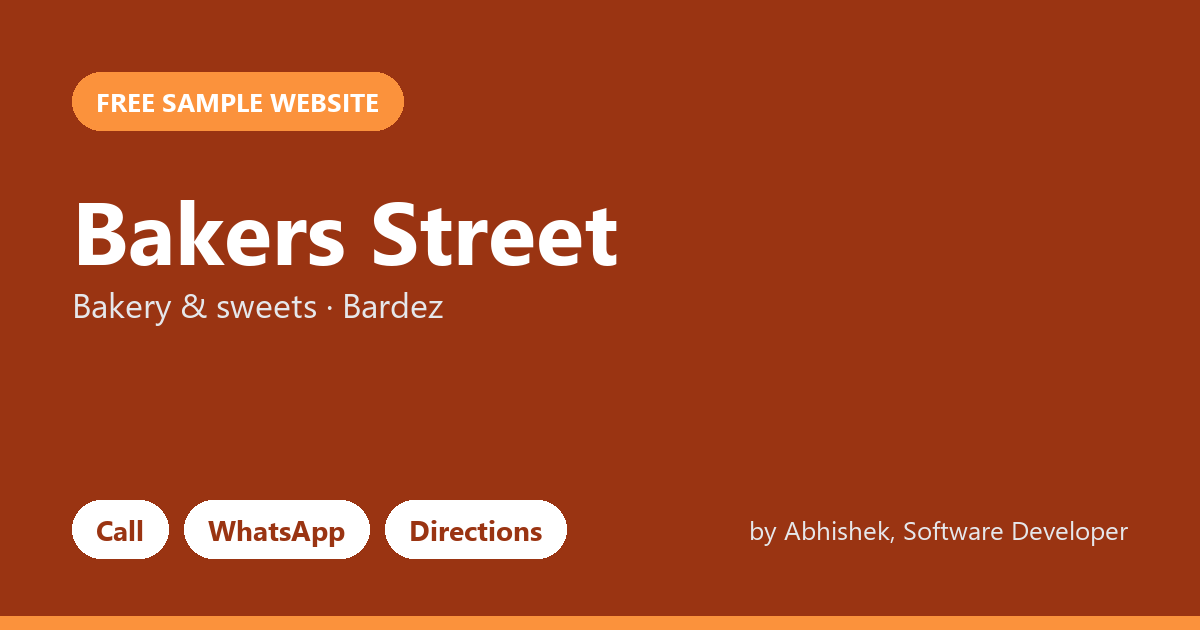
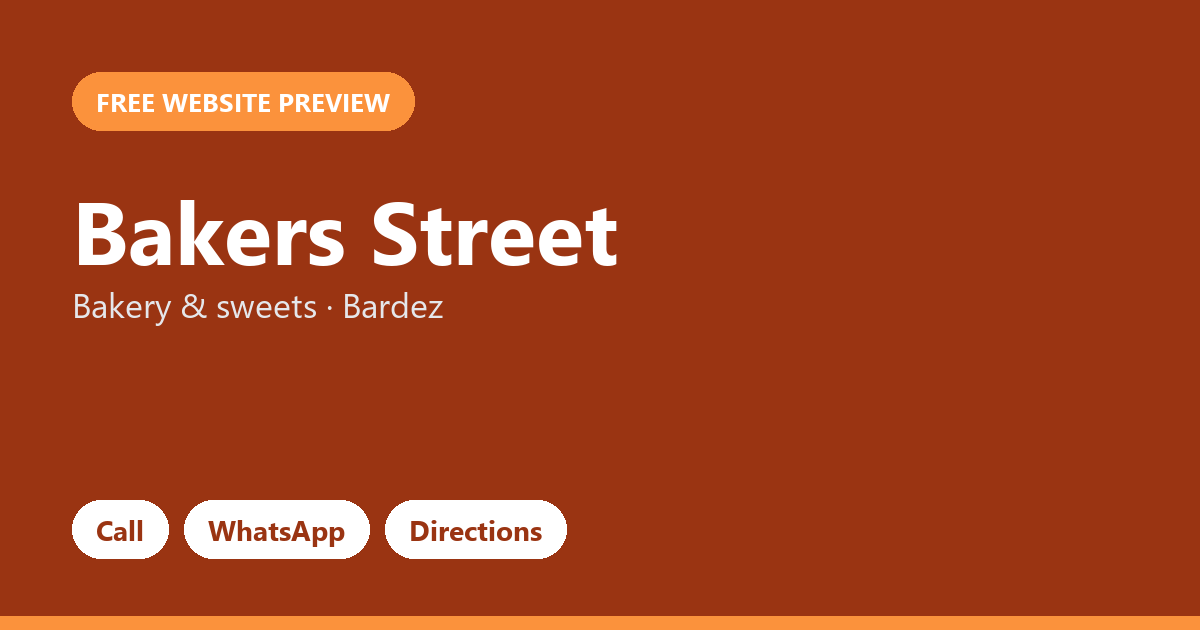
Previews: drop price and personal name (11-15 of 139)

Changed region(s): [[0.6167, 0.8143, 0.925, 0.8746], [0.1233, 0.1206, 0.37, 0.2111]]

diff --git a/p/ashwani-bakers-and-wrappers-jalandhar-4273/index.html b/p/ashwani-bakers-and-wrappers-jalandhar-4273/index.html
@@ -6,8 +6,8 @@
 <title>Ashwani Bakers and Wrappers | Bakery &amp; sweets in Jalandhar</title>
 <meta name="description" content="Freshly baked every day. Cakes, pastries and treats for every celebration.">
 <meta property="og:type" content="website">
-<meta property="og:title" content="Ashwani Bakers and Wrappers · Free sample website">
-<meta property="og:description" content="Made by Abhishek, Software Developer. Call, WhatsApp and directions in one tap.">
+<meta property="og:title" content="Ashwani Bakers and Wrappers · Free website preview">
+<meta property="og:description" content="Call, WhatsApp and directions in one tap.">
 <meta property="og:url" content="https://roguestar03.github.io/p/ashwani-bakers-and-wrappers-jalandhar-4273/">
 <meta property="og:image" content="https://roguestar03.github.io/p/ashwani-bakers-and-wrappers-jalandhar-4273/og.png">
 <meta property="og:image:width" content="1200">
@@ -167,7 +167,7 @@ footer{padding:40px 0 110px;border-top:1px solid var(--line);font-size:14px;colo
 </style>
 </head>
 <body>
-<div class="pv">Sample website made for <b>Ashwani Bakers and Wrappers</b> by <b>Abhishek</b>. Not the official website yet. <b>Like it?</b> Make it yours for ₹1,999. Contact: <a href="mailto:abhishekkayasth87@gmail.com">abhishekkayasth87@gmail.com</a> · <a href="https://www.linkedin.com/in/abhishek-kayasth-050250239/" target="_blank" rel="noopener">LinkedIn</a></div>
+<div class="pv">Free website preview for <b>Ashwani Bakers and Wrappers</b>. Not the official website yet. <b>Like it?</b> Just reply to our message. Contact: <a href="mailto:abhishekkayasth87@gmail.com">abhishekkayasth87@gmail.com</a> · <a href="https://www.linkedin.com/in/abhishek-kayasth-050250239/" target="_blank" rel="noopener">LinkedIn</a></div>
 <header>
   <div class="wrap nav">
     <a href="#top" class="logo"><span class="mark">AB</span><span class="t">Ashwani Bakers and Wrappers</span></a>
@@ -259,7 +259,7 @@ footer{padding:40px 0 110px;border-top:1px solid var(--line);font-size:14px;colo
       <div><b style="color:var(--ink)">Ashwani Bakers and Wrappers</b><br>BIII-474, Jail Rd, Near Fire Brigade, Jalandhar<p class="soc"><a href="https://www.facebook.com/781064111985018" target="_blank" rel="noopener">Facebook</a></p></div>
       <div>+91 70099 64273<br>&copy; 2026 Ashwani Bakers and Wrappers</div>
     </div>
-    <p class="credit">Sample website by Abhishek, Software Developer · <a href="mailto:abhishekkayasth87@gmail.com">abhishekkayasth87@gmail.com</a> · <a href="https://www.linkedin.com/in/abhishek-kayasth-050250239/" target="_blank" rel="noopener">LinkedIn</a></p>
+    <p class="credit">Website preview · <a href="mailto:abhishekkayasth87@gmail.com">abhishekkayasth87@gmail.com</a> · <a href="https://www.linkedin.com/in/abhishek-kayasth-050250239/" target="_blank" rel="noopener">LinkedIn</a></p>
   </div>
 </footer>
 

diff --git a/p/ask-fitness-banashankari-bengaluru-3704/index.html b/p/ask-fitness-banashankari-bengaluru-3704/index.html
@@ -6,8 +6,8 @@
 <title>ASK Fitness Banashankari | Gym &amp; fitness in Bengaluru</title>
 <meta name="description" content="Train harder, get stronger. Modern equipment, expert trainers and a motivating crowd.">
 <meta property="og:type" content="website">
-<meta property="og:title" content="ASK Fitness Banashankari · Free sample website">
-<meta property="og:description" content="Made by Abhishek, Software Developer. Call, WhatsApp and directions in one tap.">
+<meta property="og:title" content="ASK Fitness Banashankari · Free website preview">
+<meta property="og:description" content="Call, WhatsApp and directions in one tap.">
 <meta property="og:url" content="https://roguestar03.github.io/p/ask-fitness-banashankari-bengaluru-3704/">
 <meta property="og:image" content="https://roguestar03.github.io/p/ask-fitness-banashankari-bengaluru-3704/og.png">
 <meta property="og:image:width" content="1200">
@@ -167,7 +167,7 @@ footer{padding:40px 0 110px;border-top:1px solid var(--line);font-size:14px;colo
 </style>
 </head>
 <body>
-<div class="pv">Sample website made for <b>ASK Fitness Banashankari</b> by <b>Abhishek</b>. Not the official website yet. <b>Like it?</b> Make it yours for ₹1,999. Contact: <a href="mailto:abhishekkayasth87@gmail.com">abhishekkayasth87@gmail.com</a> · <a href="https://www.linkedin.com/in/abhishek-kayasth-050250239/" target="_blank" rel="noopener">LinkedIn</a></div>
+<div class="pv">Free website preview for <b>ASK Fitness Banashankari</b>. Not the official website yet. <b>Like it?</b> Just reply to our message. Contact: <a href="mailto:abhishekkayasth87@gmail.com">abhishekkayasth87@gmail.com</a> · <a href="https://www.linkedin.com/in/abhishek-kayasth-050250239/" target="_blank" rel="noopener">LinkedIn</a></div>
 <header>
   <div class="wrap nav">
     <a href="#top" class="logo"><span class="mark">AF</span><span class="t">ASK Fitness Banashankari</span></a>
@@ -259,7 +259,7 @@ footer{padding:40px 0 110px;border-top:1px solid var(--line);font-size:14px;colo
       <div><b style="color:var(--ink)">ASK Fitness Banashankari</b><br>19/11, 5th main, 4th Cross Rd, Bengaluru<p class="soc"><a href="https://www.facebook.com/107569030647072" target="_blank" rel="noopener">Facebook</a></p></div>
       <div>+91 74839 03704<br>&copy; 2026 ASK Fitness Banashankari</div>
     </div>
-    <p class="credit">Sample website by Abhishek, Software Developer · <a href="mailto:abhishekkayasth87@gmail.com">abhishekkayasth87@gmail.com</a> · <a href="https://www.linkedin.com/in/abhishek-kayasth-050250239/" target="_blank" rel="noopener">LinkedIn</a></p>
+    <p class="credit">Website preview · <a href="mailto:abhishekkayasth87@gmail.com">abhishekkayasth87@gmail.com</a> · <a href="https://www.linkedin.com/in/abhishek-kayasth-050250239/" target="_blank" rel="noopener">LinkedIn</a></p>
   </div>
 </footer>
 

diff --git a/p/athletica-fitness-surat-9000/index.html b/p/athletica-fitness-surat-9000/index.html
@@ -6,8 +6,8 @@
 <title>Athletica Fitness | Gym &amp; fitness in Surat</title>
 <meta name="description" content="Train harder, get stronger. Modern equipment, expert trainers and a motivating crowd.">
 <meta property="og:type" content="website">
-<meta property="og:title" content="Athletica Fitness · Free sample website">
-<meta property="og:description" content="Made by Abhishek, Software Developer. Call, WhatsApp and directions in one tap.">
+<meta property="og:title" content="Athletica Fitness · Free website preview">
+<meta property="og:description" content="Call, WhatsApp and directions in one tap.">
 <meta property="og:url" content="https://roguestar03.github.io/p/athletica-fitness-surat-9000/">
 <meta property="og:image" content="https://roguestar03.github.io/p/athletica-fitness-surat-9000/og.png">
 <meta property="og:image:width" content="1200">
@@ -167,7 +167,7 @@ footer{padding:40px 0 110px;border-top:1px solid var(--line);font-size:14px;colo
 </style>
 </head>
 <body>
-<div class="pv">Sample website made for <b>Athletica Fitness</b> by <b>Abhishek</b>. Not the official website yet. <b>Like it?</b> Make it yours for ₹1,999. Contact: <a href="mailto:abhishekkayasth87@gmail.com">abhishekkayasth87@gmail.com</a> · <a href="https://www.linkedin.com/in/abhishek-kayasth-050250239/" target="_blank" rel="noopener">LinkedIn</a></div>
+<div class="pv">Free website preview for <b>Athletica Fitness</b>. Not the official website yet. <b>Like it?</b> Just reply to our message. Contact: <a href="mailto:abhishekkayasth87@gmail.com">abhishekkayasth87@gmail.com</a> · <a href="https://www.linkedin.com/in/abhishek-kayasth-050250239/" target="_blank" rel="noopener">LinkedIn</a></div>
 <header>
   <div class="wrap nav">
     <a href="#top" class="logo"><span class="mark">AF</span><span class="t">Athletica Fitness</span></a>
@@ -259,7 +259,7 @@ footer{padding:40px 0 110px;border-top:1px solid var(--line);font-size:14px;colo
       <div><b style="color:var(--ink)">Athletica Fitness</b><br>Athletica Fitness, opp. Lourdes Convent School, Surat<p class="soc"><a href="https://www.facebook.com/387564472090866" target="_blank" rel="noopener">Facebook</a></p></div>
       <div>+91 76988 69000<br>&copy; 2026 Athletica Fitness</div>
     </div>
-    <p class="credit">Sample website by Abhishek, Software Developer · <a href="mailto:abhishekkayasth87@gmail.com">abhishekkayasth87@gmail.com</a> · <a href="https://www.linkedin.com/in/abhishek-kayasth-050250239/" target="_blank" rel="noopener">LinkedIn</a></p>
+    <p class="credit">Website preview · <a href="mailto:abhishekkayasth87@gmail.com">abhishekkayasth87@gmail.com</a> · <a href="https://www.linkedin.com/in/abhishek-kayasth-050250239/" target="_blank" rel="noopener">LinkedIn</a></p>
   </div>
 </footer>
 

diff --git a/p/bakers-street-bardez-5822/index.html b/p/bakers-street-bardez-5822/index.html
@@ -6,8 +6,8 @@
 <title>Bakers Street | Bakery &amp; sweets in Bardez</title>
 <meta name="description" content="Freshly baked every day. Cakes, pastries and treats for every celebration.">
 <meta property="og:type" content="website">
-<meta property="og:title" content="Bakers Street · Free sample website">
-<meta property="og:description" content="Made by Abhishek, Software Developer. Call, WhatsApp and directions in one tap.">
+<meta property="og:title" content="Bakers Street · Free website preview">
+<meta property="og:description" content="Call, WhatsApp and directions in one tap.">
 <meta property="og:url" content="https://roguestar03.github.io/p/bakers-street-bardez-5822/">
 <meta property="og:image" content="https://roguestar03.github.io/p/bakers-street-bardez-5822/og.png">
 <meta property="og:image:width" content="1200">
@@ -167,7 +167,7 @@ footer{padding:40px 0 110px;border-top:1px solid var(--line);font-size:14px;colo
 </style>
 </head>
 <body>
-<div class="pv">Sample website made for <b>Bakers Street</b> by <b>Abhishek</b>. Not the official website yet. <b>Like it?</b> Make it yours for ₹1,999. Contact: <a href="mailto:abhishekkayasth87@gmail.com">abhishekkayasth87@gmail.com</a> · <a href="https://www.linkedin.com/in/abhishek-kayasth-050250239/" target="_blank" rel="noopener">LinkedIn</a></div>
+<div class="pv">Free website preview for <b>Bakers Street</b>. Not the official website yet. <b>Like it?</b> Just reply to our message. Contact: <a href="mailto:abhishekkayasth87@gmail.com">abhishekkayasth87@gmail.com</a> · <a href="https://www.linkedin.com/in/abhishek-kayasth-050250239/" target="_blank" rel="noopener">LinkedIn</a></div>
 <header>
   <div class="wrap nav">
     <a href="#top" class="logo"><span class="mark">BS</span><span class="t">Bakers Street</span></a>
@@ -259,7 +259,7 @@ footer{padding:40px 0 110px;border-top:1px solid var(--line);font-size:14px;colo
       <div><b style="color:var(--ink)">Bakers Street</b><br>Chogm Rd, Bardez<p class="soc"><a href="https://www.facebook.com/113510052081524" target="_blank" rel="noopener">Facebook</a></p></div>
       <div>+91 98223 85822<br>&copy; 2026 Bakers Street</div>
     </div>
-    <p class="credit">Sample website by Abhishek, Software Developer · <a href="mailto:abhishekkayasth87@gmail.com">abhishekkayasth87@gmail.com</a> · <a href="https://www.linkedin.com/in/abhishek-kayasth-050250239/" target="_blank" rel="noopener">LinkedIn</a></p>
+    <p class="credit">Website preview · <a href="mailto:abhishekkayasth87@gmail.com">abhishekkayasth87@gmail.com</a> · <a href="https://www.linkedin.com/in/abhishek-kayasth-050250239/" target="_blank" rel="noopener">LinkedIn</a></p>
   </div>
 </footer>
 

diff --git a/p/bake-and-take-mumbai-8020/index.html b/p/bake-and-take-mumbai-8020/index.html
@@ -6,8 +6,8 @@
 <title>Bake and Take | Bakery &amp; sweets in Mumbai</title>
 <meta name="description" content="Freshly baked every day. Cakes, pastries and treats for every celebration.">
 <meta property="og:type" content="website">
-<meta property="og:title" content="Bake and Take · Free sample website">
-<meta property="og:description" content="Made by Abhishek, Software Developer. Call, WhatsApp and directions in one tap.">
+<meta property="og:title" content="Bake and Take · Free website preview">
+<meta property="og:description" content="Call, WhatsApp and directions in one tap.">
 <meta property="og:url" content="https://roguestar03.github.io/p/bake-and-take-mumbai-8020/">
 <meta property="og:image" content="https://roguestar03.github.io/p/bake-and-take-mumbai-8020/og.png">
 <meta property="og:image:width" content="1200">
@@ -167,7 +167,7 @@ footer{padding:40px 0 110px;border-top:1px solid var(--line);font-size:14px;colo
 </style>
 </head>
 <body>
-<div class="pv">Sample website made for <b>Bake and Take</b> by <b>Abhishek</b>. Not the official website yet. <b>Like it?</b> Make it yours for ₹1,999. Contact: <a href="mailto:abhishekkayasth87@gmail.com">abhishekkayasth87@gmail.com</a> · <a href="https://www.linkedin.com/in/abhishek-kayasth-050250239/" target="_blank" rel="noopener">LinkedIn</a></div>
+<div class="pv">Free website preview for <b>Bake and Take</b>. Not the official website yet. <b>Like it?</b> Just reply to our message. Contact: <a href="mailto:abhishekkayasth87@gmail.com">abhishekkayasth87@gmail.com</a> · <a href="https://www.linkedin.com/in/abhishek-kayasth-050250239/" target="_blank" rel="noopener">LinkedIn</a></div>
 <header>
   <div class="wrap nav">
     <a href="#top" class="logo"><span class="mark">BT</span><span class="t">Bake and Take</span></a>
@@ -259,7 +259,7 @@ footer{padding:40px 0 110px;border-top:1px solid var(--line);font-size:14px;colo
       <div><b style="color:var(--ink)">Bake and Take</b><br>Shop NO 164-1/1, Mumbai</div>
       <div>+91 90760 98020<br>&copy; 2026 Bake and Take</div>
     </div>
-    <p class="credit">Sample website by Abhishek, Software Developer · <a href="mailto:abhishekkayasth87@gmail.com">abhishekkayasth87@gmail.com</a> · <a href="https://www.linkedin.com/in/abhishek-kayasth-050250239/" target="_blank" rel="noopener">LinkedIn</a></p>
+    <p class="credit">Website preview · <a href="mailto:abhishekkayasth87@gmail.com">abhishekkayasth87@gmail.com</a> · <a href="https://www.linkedin.com/in/abhishek-kayasth-050250239/" target="_blank" rel="noopener">LinkedIn</a></p>
   </div>
 </footer>
 
